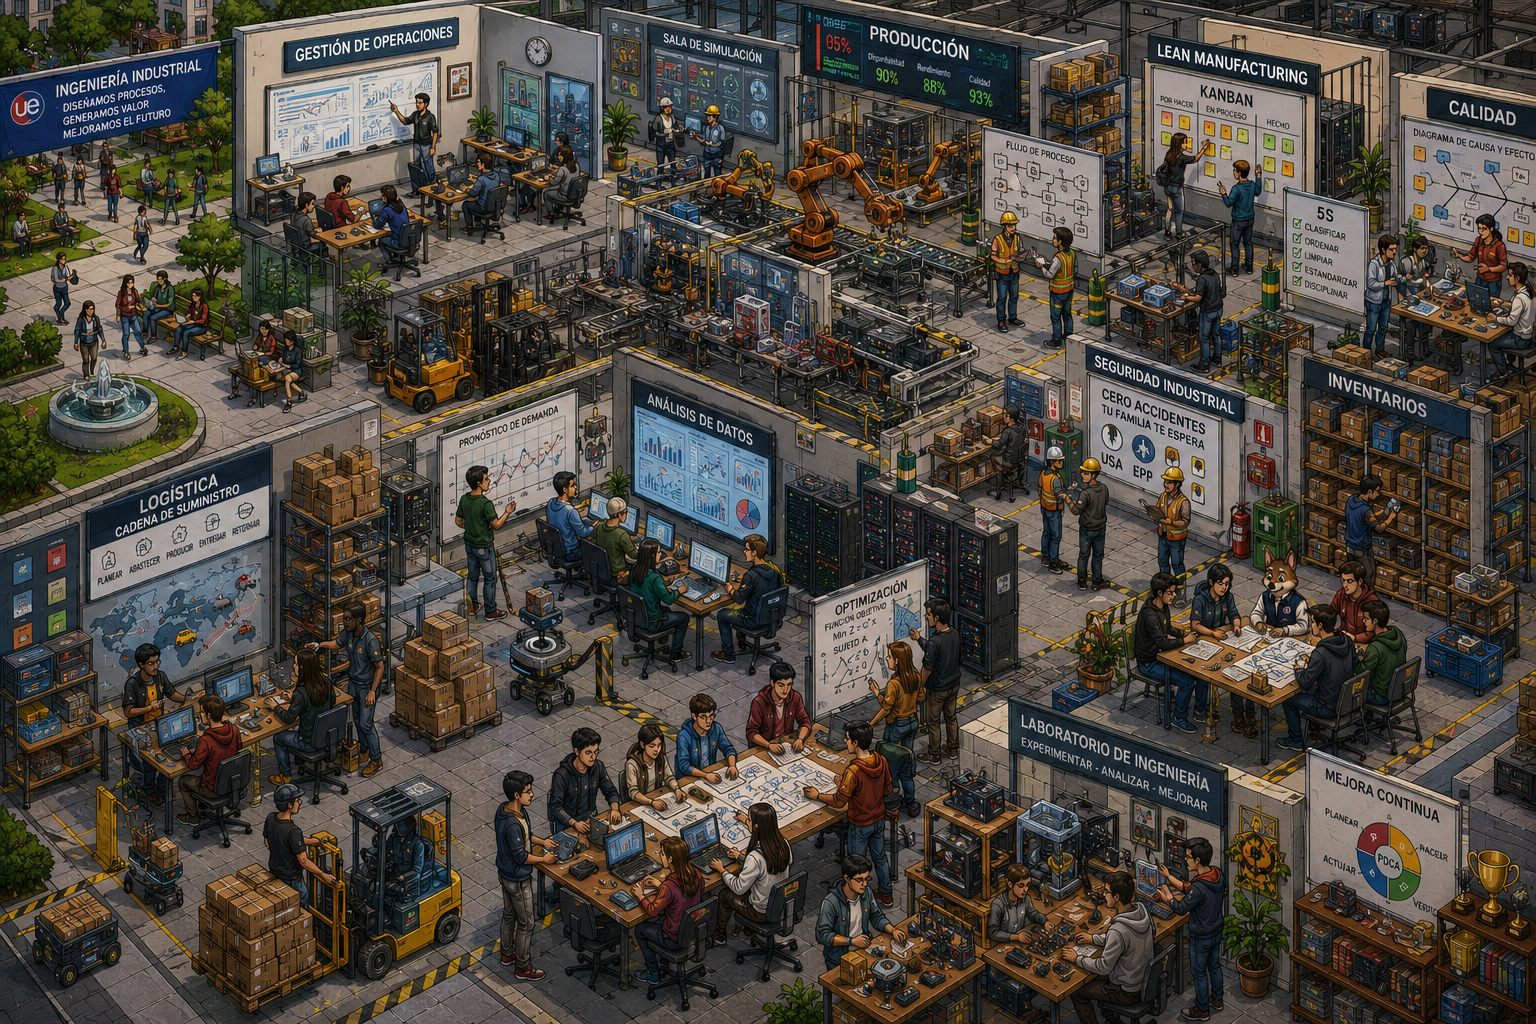
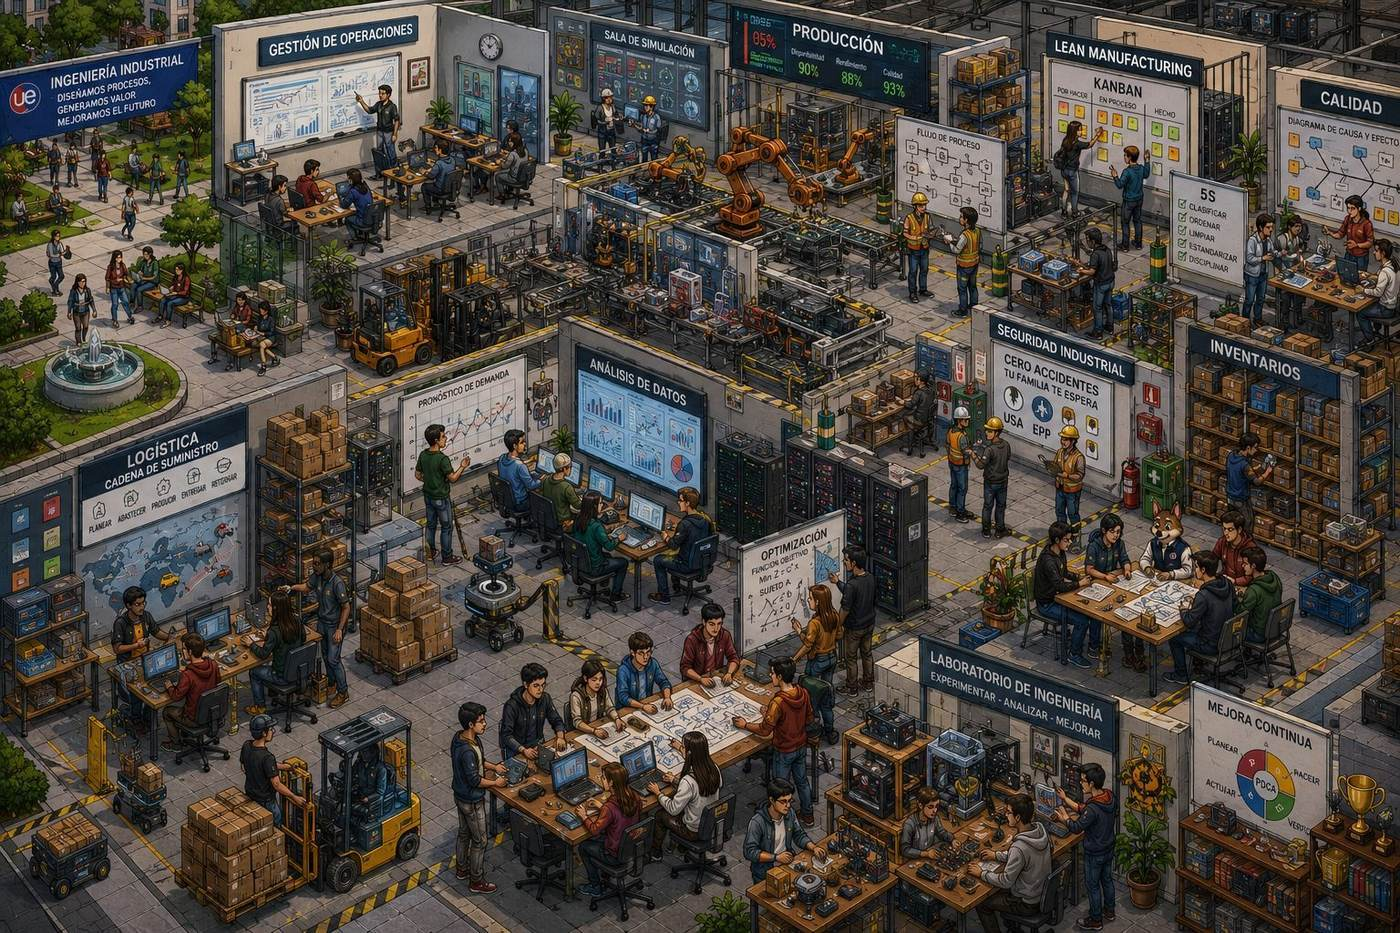
feat: plan de mejoras UI/UX en 4 fases
Fase 1: contraste WCAG AA, focus-visible y role=alert. Fase 2: targets tactiles, tarjetas compactas y feedback de presion. Fase 3: PrizeModal con opcion Ahora no para flujo quiosco. Fase 4: imagenes WebP/JPEG optimizadas, 8.64MB a 2.42MB.

diff --git a/juego-web/src/pages/BusquedaPage.tsx b/juego-web/src/pages/BusquedaPage.tsx
@@ -75,10 +75,10 @@ export function BusquedaPage() {
 
   const currentImage = CAREER_IMAGES[currentImageIndex];
   const companionImage = countdown !== null
-    ? '/images/stuttgart-sonriente.png'
+    ? '/images/stuttgart-sonriente.webp'
     : hasFound
-      ? '/images/stuttgart-ganador.png'
-      : '/images/stuttgart-investigador.png';
+      ? '/images/stuttgart-ganador.webp'
+      : '/images/stuttgart-investigador.webp';
   const elapsedSeconds = Math.floor(timer.elapsedMs / 1000);
   const urgency = elapsedSeconds >= 20 ? 'intense' : elapsedSeconds >= 10 ? 'warning' : 'calm';
 
@@ -186,7 +186,7 @@ export function BusquedaPage() {
               <div className="animate-scale-in flex max-w-md w-full flex-col items-center gap-3 rounded-3xl border border-white/20 bg-white/10 p-6 text-center text-white shadow-2xl backdrop-blur-xl">
                 <div className="relative">
                   <img
-                    src="/images/stuttgart-investigador.png"
+                    src="/images/stuttgart-investigador.webp"
                     alt="Stuttgart Encontrado"
                     loading="lazy"
                     decoding="async"
@@ -210,13 +210,13 @@ export function BusquedaPage() {
                 <div className="flex w-full flex-col sm:flex-row items-center gap-2.5 mt-1">
                   <button
                     onClick={handleShowRegistration}
-                    className="btn-glow flex-1 w-full rounded-full bg-secondary px-5 py-3 text-xs sm:text-sm font-black uppercase tracking-wider text-gray-950 shadow-xl transition-all hover:scale-105 active:scale-95"
+                    className="btn-glow flex-1 w-full rounded-full bg-secondary px-5 py-3 text-xs sm:text-sm font-black uppercase tracking-wider text-gray-950 shadow-xl transition-all hover:scale-105 active:scale-95 focus-visible:outline-none focus-visible:ring-2 focus-visible:ring-offset-2 focus-visible:ring-secondary"
                   >
                     📝 Registrar
                   </button>
                   <button
                     onClick={handleNextChallenge}
-                    className="w-full sm:w-auto rounded-full border border-white/30 bg-white/10 px-4 py-3 text-xs sm:text-sm font-semibold text-white hover:bg-white/20 transition-all"
+                    className="w-full sm:w-auto rounded-full border border-white/30 bg-white/10 px-4 py-3 text-xs sm:text-sm font-semibold text-white hover:bg-white/20 transition-all active:scale-95 focus-visible:outline-none focus-visible:ring-2 focus-visible:ring-offset-2 focus-visible:ring-white"
                   >
                     🔄 Otra lámina
                   </button>
@@ -231,7 +231,7 @@ export function BusquedaPage() {
           <div className="grid w-full grid-cols-[auto_auto_1fr] items-center gap-2 sm:flex sm:w-auto">
             <button
               onClick={toggleZoom}
-              className={`flex min-h-12 min-w-12 items-center justify-center rounded-2xl border px-3 text-sm font-bold transition-all ${
+              className={`flex min-h-12 min-w-12 items-center justify-center rounded-2xl border px-3 text-sm font-bold transition-all active:scale-95 focus-visible:outline-none focus-visible:ring-2 focus-visible:ring-offset-2 focus-visible:ring-secondary ${
                 isZoomed
               ? 'border-secondary bg-secondary text-gray-950 shadow-lg shadow-secondary/20'
                 : 'border-slate-200 bg-slate-50 text-slate-700 hover:bg-primary/5 hover:text-primary'
@@ -244,7 +244,7 @@ export function BusquedaPage() {
 
             <button
               onClick={handleNextChallenge}
-              className="flex min-h-12 min-w-12 items-center justify-center rounded-2xl border border-slate-200 bg-slate-50 px-3 text-sm font-bold text-slate-700 transition-all hover:bg-primary/5 hover:text-primary active:scale-95"
+              className="flex min-h-12 min-w-12 items-center justify-center rounded-2xl border border-slate-200 bg-slate-50 px-3 text-sm font-bold text-slate-700 transition-all hover:bg-primary/5 hover:text-primary active:scale-95 focus-visible:outline-none focus-visible:ring-2 focus-visible:ring-offset-2 focus-visible:ring-secondary"
               title="Cambiar a otra lámina"
               aria-label="Otra lámina"
             >
@@ -262,14 +262,14 @@ export function BusquedaPage() {
               <button
                 onClick={handleFound}
                 disabled={countdown !== null}
-                className="btn-glow col-span-3 flex min-h-14 w-full touch-manipulation items-center justify-center gap-2 rounded-2xl bg-gradient-to-r from-primary to-orange-500 px-3 py-3 text-sm font-black uppercase tracking-wider text-white shadow-xl transition-all hover:scale-[1.02] hover:shadow-primary/40 active:scale-95 disabled:cursor-not-allowed disabled:opacity-50 sm:col-span-1 sm:min-w-64 sm:flex-none sm:px-5 sm:text-lg"
+                className="btn-glow col-span-3 flex min-h-14 w-full touch-manipulation items-center justify-center gap-2 rounded-2xl bg-gradient-to-r from-primary to-orange-500 px-3 py-3 text-sm font-black uppercase tracking-wider text-white shadow-xl transition-all hover:scale-[1.02] hover:shadow-primary/40 active:scale-95 disabled:cursor-not-allowed disabled:opacity-50 focus-visible:outline-none focus-visible:ring-2 focus-visible:ring-offset-2 focus-visible:ring-primary sm:col-span-1 sm:min-w-64 sm:flex-none sm:px-5 sm:text-lg"
               >
                 <span>✋ ¡LO ENCONTRÉ!</span>
               </button>
             ) : (
               <button
                 onClick={handleNextChallenge}
-                className="btn-glow col-span-3 flex min-h-14 w-full touch-manipulation items-center justify-center gap-2 rounded-2xl bg-slate-900 px-3 py-3 text-sm font-black uppercase tracking-wider text-white shadow-lg transition-all hover:bg-slate-800 active:scale-95 sm:col-span-1 sm:min-w-64 sm:flex-none sm:px-5 sm:text-lg"
+                className="btn-glow col-span-3 flex min-h-14 w-full touch-manipulation items-center justify-center gap-2 rounded-2xl bg-slate-900 px-3 py-3 text-sm font-black uppercase tracking-wider text-white shadow-lg transition-all hover:bg-slate-800 active:scale-95 focus-visible:outline-none focus-visible:ring-2 focus-visible:ring-offset-2 focus-visible:ring-slate-900 sm:col-span-1 sm:min-w-64 sm:flex-none sm:px-5 sm:text-lg"
               >
                 <span>🔄 SIGUIENTE RETO</span>
               </button>

diff --git a/juego-web/src/pages/LandingPage.tsx b/juego-web/src/pages/LandingPage.tsx
@@ -32,7 +32,7 @@ function ChallengeCard({
     <button
       type="button"
       onClick={onClick}
-      className={`group relative flex min-h-[300px] w-full flex-col overflow-hidden rounded-[2rem] border p-5 text-left shadow-[0_24px_60px_rgba(13,27,62,0.14)] transition duration-300 hover:-translate-y-1 hover:shadow-[0_30px_72px_rgba(13,27,62,0.2)] focus-visible:outline-none focus-visible:ring-4 focus-visible:ring-offset-2 sm:min-h-[360px] sm:p-7 ${
+      className={`group relative flex min-h-[260px] w-full flex-col overflow-hidden rounded-[2rem] border p-4 text-left shadow-[0_24px_60px_rgba(13,27,62,0.14)] transition duration-300 hover:-translate-y-1 active:scale-[0.98] hover:shadow-[0_30px_72px_rgba(13,27,62,0.2)] focus-visible:outline-none focus-visible:ring-4 focus-visible:ring-offset-2 sm:min-h-[360px] sm:p-7 ${
         isRoulette
           ? 'border-primary/30 bg-[linear-gradient(145deg,#fffdfa_0%,#fff0ef_60%,#ffe0e0_100%)] focus-visible:ring-primary/50'
           : 'border-secondary/30 bg-[linear-gradient(145deg,#feffff_0%,#eef8fb_58%,#d7eef5_100%)] focus-visible:ring-secondary/50'
@@ -74,9 +74,12 @@ function ChallengeCard({
           <img
             src={image}
             alt={imageAlt}
+            width={1065}
+            height={1008}
             loading={isRoulette ? 'eager' : 'lazy'}
+            {...(isRoulette ? { fetchPriority: 'high' as const } : {})}
             decoding="async"
-            className="relative h-40 w-auto object-contain drop-shadow-[0_18px_20px_rgba(13,27,62,0.22)] transition duration-500 group-hover:scale-110 sm:h-52"
+            className="relative h-32 w-auto object-contain drop-shadow-[0_18px_20px_rgba(13,27,62,0.22)] transition duration-500 group-hover:scale-110 sm:h-52"
           />
           <span
             className={`absolute -right-1 bottom-2 flex h-11 w-11 items-center justify-center rounded-2xl text-lg text-white shadow-lg ${
@@ -89,12 +92,12 @@ function ChallengeCard({
       </div>
 
       <div className="relative z-10">
-        {meta && <p className={`text-xs font-bold ${isRoulette ? 'text-primary/70' : 'text-secondary/70'}`}>{meta}</p>}
+        {meta && <p className={`text-xs font-bold ${isRoulette ? 'text-[#B30D12]' : 'text-secondary-hover'}`}>{meta}</p>}
         <h2 className="mt-1 text-2xl font-black tracking-tight text-slate-900 sm:text-3xl">{title}</h2>
         <p className="mt-2 max-w-md text-sm leading-relaxed text-slate-600 sm:text-base">{description}</p>
 
         <span
-          className={`mt-5 inline-flex items-center gap-2 rounded-2xl px-5 py-3 text-sm font-black uppercase tracking-wide text-white shadow-lg transition duration-300 group-hover:translate-x-1 ${
+          className={`mt-4 inline-flex items-center gap-2 rounded-2xl px-5 py-3 text-sm font-black uppercase tracking-wide text-white shadow-lg transition duration-300 group-hover:translate-x-1 sm:mt-5 ${
             isRoulette
               ? 'bg-gradient-to-r from-primary via-accent to-primary shadow-primary/40'
               : 'bg-gradient-to-r from-secondary to-primary shadow-secondary/40'
@@ -137,7 +140,7 @@ export function LandingPage() {
           accent="roulette"
           eyebrow="Premios en juego"
           icon="🎡"
-          image="/images/stuttgart-ruleta.png"
+          image="/images/stuttgart-ruleta.webp"
           imageAlt="Stuttgart con la ruleta de premios"
           meta=""
           title="Gira y gana"
@@ -149,7 +152,7 @@ export function LandingPage() {
           accent="search"
           eyebrow="Reto contrarreloj"
           icon="🔎"
-          image="/images/stuttgart-investigador.png"
+          image="/images/stuttgart-investigador.webp"
           imageAlt="Stuttgart investigador"
           meta=""
           title="Encuentra a Stuttgart"

diff --git a/juego-web/src/components/PrizeModal.tsx b/juego-web/src/components/PrizeModal.tsx
@@ -3,13 +3,19 @@ import { sound } from '../lib/sound';
 interface PrizeModalProps {
   prize: string;
   onClose: () => void;
+  /** Optional kiosk escape hatch: dismiss without opening registration. */
+  onSkip?: () => void;
 }
 
-export function PrizeModal({ prize, onClose }: PrizeModalProps) {
+export function PrizeModal({ prize, onClose, onSkip }: PrizeModalProps) {
   const isScholarship = prize.toLowerCase().includes('beca');
   const handleProceed = () => {
     sound.playClick();
     onClose();
+  };
+  const handleSkip = () => {
+    sound.playClick();
+    onSkip?.();
   };
 
   return (
@@ -48,7 +54,7 @@ export function PrizeModal({ prize, onClose }: PrizeModalProps) {
           </div>
 
           <span className={`inline-block rounded-full border px-3 py-1 text-xs font-black uppercase tracking-wider mb-2 ${
-            isScholarship ? 'border-accent bg-accent/10 text-accent' : 'border-primary/20 bg-primary/10 text-primary'
+            isScholarship ? 'border-accent bg-accent/10 text-[#C24A1A]' : 'border-primary/20 bg-primary/10 text-primary'
           }`}>
             {isScholarship ? '¡Premio mayor!' : '¡Premio ganado!'}
           </span>
@@ -70,11 +76,20 @@ export function PrizeModal({ prize, onClose }: PrizeModalProps) {
 
           <button
             onClick={handleProceed}
-            className="btn-glow flex w-full items-center justify-center gap-2 rounded-full bg-gradient-to-r from-primary to-accent px-6 py-4 text-base font-black uppercase tracking-wider text-white shadow-xl transition-all hover:scale-[1.02] active:scale-95 hover:shadow-primary/40"
+            className="btn-glow flex w-full items-center justify-center gap-2 rounded-full bg-gradient-to-r from-primary to-accent px-6 py-4 text-base font-black uppercase tracking-wider text-white shadow-xl transition-all hover:scale-[1.02] active:scale-95 hover:shadow-primary/40 focus-visible:outline-none focus-visible:ring-2 focus-visible:ring-offset-2 focus-visible:ring-primary"
           >
             <span>Registrar</span>
             <span>→</span>
           </button>
+          {onSkip && (
+            <button
+              type="button"
+              onClick={handleSkip}
+              className="mt-3 w-full rounded-full px-6 py-2 text-sm font-semibold text-slate-500 transition-all hover:bg-slate-100 hover:text-slate-700 active:scale-95 focus-visible:outline-none focus-visible:ring-2 focus-visible:ring-offset-2 focus-visible:ring-slate-400"
+            >
+              Ahora no
+            </button>
+          )}
         </div>
       </div>
     </div>

diff --git a/juego-web/src/pages/RuletaPage.tsx b/juego-web/src/pages/RuletaPage.tsx
@@ -15,9 +15,9 @@ const STUTTGART_MESSAGES: Record<StuttgartState, string> = {
 };
 
 const STUTTGART_IMAGES: Record<StuttgartState, string> = {
-  idle: '/images/stuttgart-sonriente.png',
-  spinning: '/images/stuttgart-ruleta.png',
-  won: '/images/stuttgart-ganador.png',
+  idle: '/images/stuttgart-sonriente.webp',
+  spinning: '/images/stuttgart-ruleta.webp',
+  won: '/images/stuttgart-ganador.webp',
 };
 
 export function RuletaPage() {
@@ -49,6 +49,11 @@ export function RuletaPage() {
     setShowRegistration(true);
   }, []);
 
+  const handleSkipPrize = useCallback(() => {
+    setPrizeWon(null);
+    setStuttgartState('idle');
+  }, []);
+
   const handleCloseRegistration = useCallback(() => {
     setShowRegistration(false);
     setStuttgartState('idle');
@@ -77,7 +82,7 @@ export function RuletaPage() {
         <button
           onClick={handleSpin}
           disabled={isSpinning}
-          className={`mt-5 min-h-16 w-full touch-manipulation rounded-2xl px-8 py-4 text-xl font-black uppercase tracking-wider text-white shadow-xl transition-all duration-200 sm:text-2xl ${
+          className={`mt-5 min-h-16 w-full touch-manipulation rounded-2xl px-8 py-4 text-xl font-black uppercase tracking-wider text-white shadow-xl transition-all duration-200 focus-visible:outline-none focus-visible:ring-2 focus-visible:ring-offset-2 focus-visible:ring-primary sm:text-2xl ${
             isSpinning
               ? 'cursor-not-allowed bg-slate-300 opacity-70'
               : 'bg-gradient-to-r from-primary via-accent to-primary hover:brightness-105 hover:scale-105 active:scale-95 hover:shadow-primary/40'
@@ -107,7 +112,7 @@ export function RuletaPage() {
       </div>
 
       {/* ── Modals ── */}
-      {prizeWon && <PrizeModal prize={prizeWon.label} onClose={handleClosePrizeModal} />}
+      {prizeWon && <PrizeModal prize={prizeWon.label} onClose={handleClosePrizeModal} onSkip={handleSkipPrize} />}
       {showRegistration && (
         <RegistrationModal
           juego="ruleta"

diff --git a/juego-web/src/components/RegistrationModal.tsx b/juego-web/src/components/RegistrationModal.tsx
@@ -96,7 +96,7 @@ export function RegistrationModal({ juego, resultado, onClose }: RegistrationMod
           <div className="relative mb-3 flex justify-center">
             <div className="absolute bottom-1 h-8 w-32 rounded-full bg-orange-300/30 blur-xl" />
             <img
-              src="/images/stuttgart-ganador.png"
+              src="/images/stuttgart-ganador.webp"
               alt="Stuttgart celebrando tu victoria"
               decoding="async"
               className="stuttgart-celebration relative z-10 h-28 w-auto object-contain drop-shadow-[0_12px_12px_rgba(74,53,28,0.25)]"
@@ -293,7 +293,7 @@ export function RegistrationModal({ juego, resultado, onClose }: RegistrationMod
 
             {/* ── Server error ── */}
             {submitError && (
-              <div className="rounded-xl bg-red-50 border border-red-200 px-4 py-3 text-xs text-red-600 font-medium">
+              <div role="alert" className="rounded-xl bg-red-50 border border-red-200 px-4 py-3 text-xs text-red-600 font-medium">
                 ⚠ Error al registrar: {submitError}
               </div>
             )}
@@ -302,7 +302,7 @@ export function RegistrationModal({ juego, resultado, onClose }: RegistrationMod
             <button
               type="submit"
               disabled={!consent || isSubmitting}
-              className={`btn-glow w-full rounded-full py-4 text-sm font-extrabold uppercase tracking-wider text-white shadow-xl transition-all ${
+              className={`btn-glow w-full rounded-full py-4 text-sm font-extrabold uppercase tracking-wider text-white shadow-xl transition-all focus-visible:outline-none focus-visible:ring-2 focus-visible:ring-offset-2 focus-visible:ring-primary ${
                 !consent || isSubmitting
                   ? 'cursor-not-allowed bg-gray-300 opacity-60'
                   : 'bg-gradient-to-r from-primary to-accent text-gray-950 hover:scale-[1.02] active:scale-95 hover:shadow-primary/30'

diff --git a/juego-web/src/pages/LoginPage.tsx b/juego-web/src/pages/LoginPage.tsx
@@ -64,7 +64,7 @@ export function LoginPage() {
 
           {/* Error */}
           {error && (
-            <div className="mb-4 flex items-center gap-2 rounded-xl border border-red-100 bg-red-50 px-4 py-3 text-sm text-red-700">
+            <div role="alert" className="mb-4 flex items-center gap-2 rounded-xl border border-red-100 bg-red-50 px-4 py-3 text-sm text-red-700">
               <svg className="h-4 w-4 shrink-0" fill="none" viewBox="0 0 24 24" stroke="currentColor" strokeWidth={2}>
                 <path strokeLinecap="round" strokeLinejoin="round" d="M12 9v4m0 4h.01M21 12a9 9 0 11-18 0 9 9 0 0118 0z" />
               </svg>
@@ -107,7 +107,7 @@ export function LoginPage() {
             <button
               type="submit"
               disabled={submitting}
-              className="w-full rounded-full bg-primary px-4 py-3 text-sm font-bold text-white shadow-lg transition-all hover:bg-primary-hover hover:scale-[1.02] hover:shadow-xl active:scale-95 disabled:cursor-not-allowed disabled:opacity-50"
+              className="w-full rounded-full bg-primary px-4 py-3 text-sm font-bold text-white shadow-lg transition-all hover:bg-primary-hover hover:scale-[1.02] hover:shadow-xl active:scale-95 disabled:cursor-not-allowed disabled:opacity-50 focus-visible:outline-none focus-visible:ring-2 focus-visible:ring-offset-2 focus-visible:ring-primary"
             >
               {submitting ? (
                 <span className="flex items-center justify-center gap-2">

diff --git a/juego-web/src/components/layout/Header.tsx b/juego-web/src/components/layout/Header.tsx
@@ -55,7 +55,7 @@ export function Header() {
                 width="175"
                 height="48"
                 decoding="async"
-                className="h-7 w-auto max-w-[82px] object-contain transition-transform group-hover:scale-105 sm:h-10 sm:max-w-[175px]"
+                className="h-7 w-auto max-w-[68px] object-contain transition-transform group-hover:scale-105 sm:h-10 sm:max-w-[175px]"
               />
               <span className="absolute -bottom-0.5 -right-0.5 flex h-2.5 w-2.5">
                 <span className="animate-ping absolute inline-flex h-full w-full rounded-full bg-secondary opacity-75"></span>
@@ -118,7 +118,7 @@ export function Header() {
             {/* Sound Toggle Button */}
             <button
               onClick={toggleAudio}
-              className="flex h-8 w-8 sm:h-9 sm:w-9 items-center justify-center rounded-xl bg-gray-100/90 text-gray-700 transition-all hover:bg-gray-200 hover:scale-105 active:scale-90 border border-gray-200/60 shadow-xs"
+              className="flex h-10 w-10 sm:h-9 sm:w-9 items-center justify-center rounded-xl bg-gray-100/90 text-gray-700 transition-all hover:bg-gray-200 hover:scale-105 active:scale-90 border border-gray-200/60 shadow-xs"
               title={soundActive ? 'Silenciar efectos' : 'Activar efectos de sonido'}
               aria-label={soundActive ? 'Silenciar efectos' : 'Activar efectos de sonido'}
             >

diff --git a/juego-web/src/components/RuletaWheel.tsx b/juego-web/src/components/RuletaWheel.tsx
@@ -257,7 +257,7 @@ export function RuletaWheel({ prizes, isSpinning, onSpinEnd }: RuletaWheelProps)
       {/* ── Center hub ── */}
       <div className="absolute z-20 flex h-[78px] w-[78px] items-center justify-center overflow-hidden rounded-full border-[6px] border-[#fff7df] bg-[#EF1218] shadow-[0_0_0_5px_#FF6B35,0_0_30px_rgba(239,18,24,0.48)] sm:h-[104px] sm:w-[104px]">
         <img
-          src="/images/stuttgart-ruleta.png"
+          src="/images/stuttgart-ruleta.webp"
           alt="Stuttgart"
           width="104"
           height="104"

diff --git a/juego-web/src/components/layout/BottomNav.tsx b/juego-web/src/components/layout/BottomNav.tsx
@@ -7,7 +7,7 @@ export function BottomNav() {
   };
 
   const navItemClass = ({ isActive }: { isActive: boolean }) =>
-    `flex flex-col items-center justify-center py-2 px-3 transition-all duration-200 rounded-2xl relative ${
+    `flex flex-col items-center justify-center py-2 px-3 transition-all duration-200 rounded-2xl relative active:scale-95 ${
       isActive
         ? 'text-primary font-bold scale-105'
         : 'text-gray-500 hover:text-primary hover:bg-primary/5 font-medium'

diff --git a/juego-web/src/pages/NotFoundPage.tsx b/juego-web/src/pages/NotFoundPage.tsx
@@ -10,7 +10,7 @@ export function NotFoundPage() {
 
       <div className="text-center">
         <img
-          src="/images/stuttgart-sonriente.png"
+          src="/images/stuttgart-sonriente.webp"
           alt="Stuttgart perdido"
           className="mx-auto mb-6 h-40 w-auto animate-bounce drop-shadow-xl"
         />
